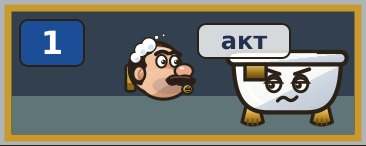
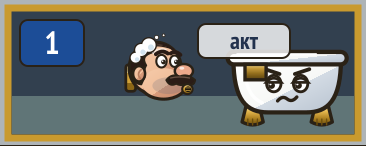
Интерфейс: текст больше не вылезает за рамки
- арт экранов (меню, подъезд, паспорт, сцены, штамп, карточки 7 и 8) пересобран
  со шрифтами игры: раньше rsvg подставлял широкий DejaVu;
- setup_sandbox.sh ставит шрифты в систему, art/gen.py без них не рисует;
- акт: подпись и значение ужимаются пропорционально, не наезжают друг на друга;
- горячая линия: крупнее кнопки, шапка без наложения;
- подъезд: табличка квартиры растёт под текст;
- мелкие шрифты крупнее (для телефона), заявка сильнее затемняет поле;
- демо-режимы hotline2 и master для снимков экрана.

Claude-Session: https://claude.ai/code/session_01KTF9zcDbthXae1taWntBSd

Changed region(s): [[0.6011, 0.2192, 0.7514, 0.3562], [0.1202, 0.1918, 0.1803, 0.3836]]

diff --git a/art/gen.py b/art/gen.py
@@ -20,6 +20,9 @@ P = dict(ol='#2B2118', brass='#C99A2E', hi='#F6DB8A', sh='#7A5A14',
 TILE = {'mint': ('#B4D7C2', '#83AA94', '#E4F3EA'), 'blue': ('#B2C9E1', '#819DBF', '#E5EEF8'),
         'mustard': ('#DFC57F', '#B1934A', '#F4E9C3')}
 UI, HAND = 'PT Sans Narrow', 'Neucha'
+# без шрифтов игры в системе rsvg молча подставляет широкий DejaVu, и текст в арте вылезает за рамки
+if not all(f in subprocess.run(['fc-list'], capture_output=True, text=True).stdout for f in (UI, HAND)):
+    raise SystemExit('нет шрифтов %s / %s в системе: bash tools/setup_sandbox.sh' % (UI, HAND))
 DV = {'up': (0, -1), 'right': (1, 0), 'down': (0, 1), 'left': (-1, 0)}
 ANG = {'right': 0, 'down': 90, 'left': 180, 'up': -90}
 OPP = {'up': 'down', 'down': 'up', 'left': 'right', 'right': 'left'}

diff --git a/CLAUDE.md b/CLAUDE.md
@@ -27,7 +27,7 @@
 
 ## Окружение и команды
 - Программы (LÖVE 11.5, LuaJIT, rsvg, ImageMagick, ffmpeg, xvfb, zip): если `love` или `luajit` не находятся —
-  `bash tools/setup_sandbox.sh`. Текст для поля Setup script облачного окружения — tools/cloud_setup.sh.
+  `bash tools/setup_sandbox.sh` (он же ставит шрифты игры в систему — без них art/*.py откажется рисовать). Текст для поля Setup script облачного окружения — tools/cloud_setup.sh.
 - Тесты: `luajit tests/test_rules.lua && luajit tests/test_solver.lua`.
 - Отчёты: `luajit solver/run_all.lua 1 2 3 4 5 6` — ВСЕГДА со всеми номерами квартир (перезаписывает отчёты целиком);
   разбор: `luajit tools/review.lua 1 2 3 4 5 6`.
